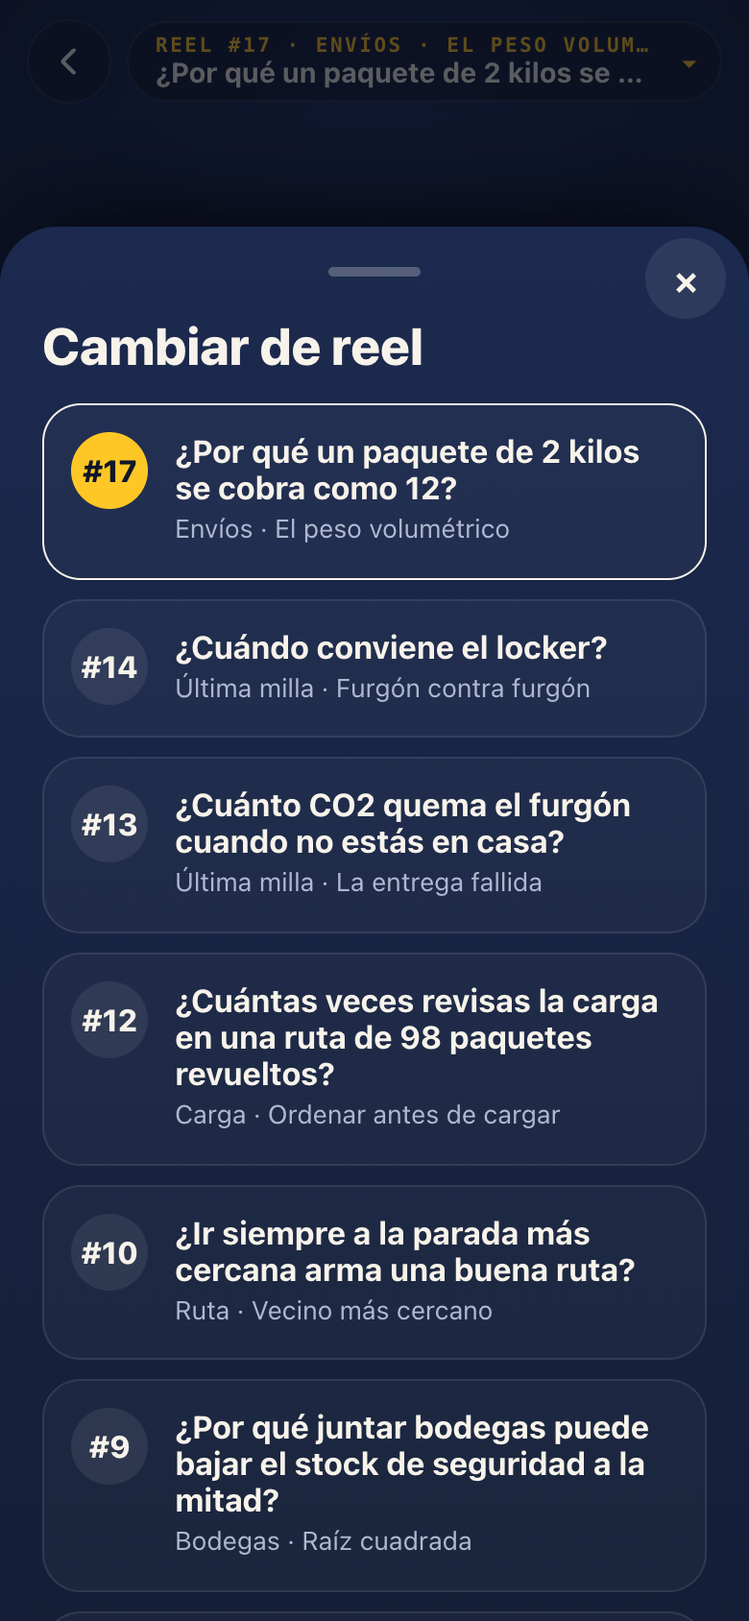
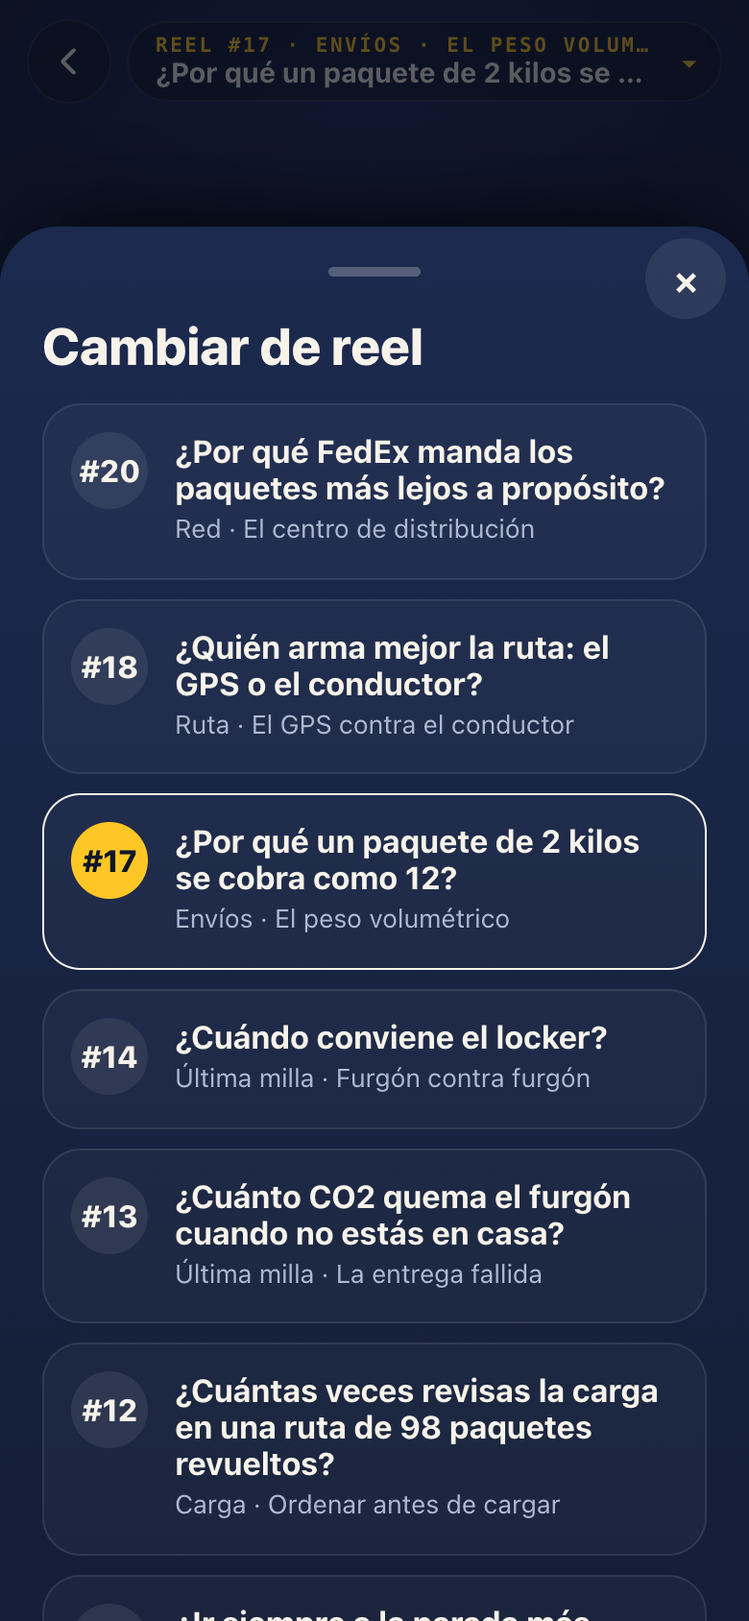
Publicar laboratorio reel 20 · FedEx, más lejos a propósito (FPUB=true)
- FPUB=true e index.html rearmado (armado idéntico). origin/main sin cambios desde c709a98.
- verify.js apaga también FPUB; aire, gps, locker, co2, cadena, bodegas y quedatelo aceptan 49 fuentes de dieciséis reels
  con fedex publicada (47 de quince con aire o gps apagados en sus pruebas) y el #20 primero en la lista de reels.
- Capturas a 390 px: fedex_pub_portada, fedex_pub_reel20, fedex_pub_biblioteca; aire/gps_lista_reels rehechas.
- Pruebas con FPUB=true: fedex 39/39, verify 155/155, cadena 9/9, bodegas 12/12, vecino 14/14, quedatelo 14/14,
  ordenar 14/14, co2 19/19, locker 36/36, aire 34/34, gps 29/29.

diff --git a/tests/aire.js b/tests/aire.js
@@ -85,9 +85,9 @@ const PORT=8801,U=`http://127.0.0.1:${PORT}/index.html`;
  // reel 17 y biblioteca con APUB=true
  await p.goto(`${U}?reel=17`);await p.waitForTimeout(2000);ok("?reel=17 abre #aire",await p.evaluate(()=>location.hash)==="#aire");
  await p.evaluate(()=>ECAPP.openSheet("aire","reels"));await p.waitForTimeout(700);const lst=await p.evaluate(()=>[...document.querySelectorAll("#sheet-body .mrow")].map(e=>e.textContent.replace(/\s+/g," ").trim()));
- {const g18=/^#18/.test(lst[0]||""),i17=g18?1:0;ok(g18?"Con APUB=true aparece en la lista de reels, tras el #18 (gps publicada): «#17 ¿Por qué un paquete de 2 kilos se cobra como 12?»":"Con APUB=true aparece en la lista de reels, primero: «#17 ¿Por qué un paquete de 2 kilos se cobra como 12?»",/^#17 ?¿Por qué un paquete de 2 kilos se cobra como 12\?/.test(lst[i17]||""),lst.slice(0,3))}await p.screenshot({path:"capturas/aire_lista_reels.png"});await p.evaluate(()=>ECAPP.closeSheet());await p.waitForTimeout(400);
+ {const g20=/^#20/.test(lst[0]||""),g18=/^#18/.test(lst[g20?1:0]||""),i17=(g20?1:0)+(g18?1:0);ok(g18?"Con APUB=true aparece en la lista de reels, tras el #18 (gps publicada): «#17 ¿Por qué un paquete de 2 kilos se cobra como 12?»":"Con APUB=true aparece en la lista de reels, primero: «#17 ¿Por qué un paquete de 2 kilos se cobra como 12?»",/^#17 ?¿Por qué un paquete de 2 kilos se cobra como 12\?/.test(lst[i17]||""),lst.slice(0,3))}await p.screenshot({path:"capturas/aire_lista_reels.png"});await p.evaluate(()=>ECAPP.closeSheet());await p.waitForTimeout(400);
  await p.evaluate(()=>{location.hash="biblioteca"});await p.waitForTimeout(900);const t=await p.textContent("#libintro");
- const LKp=await p.evaluate(()=>!!ECAPP.dev.PUBLICADO.locker),GPp=await p.evaluate(()=>!!ECAPP.dev.PUBLICADO.gps);ok(GPp&&LKp?"Biblioteca con APUB=true: 45 fuentes de quince reels (con el locker y gps)":LKp?"Biblioteca con APUB=true: 43 fuentes de catorce reels (con el locker)":"Biblioteca con APUB=true: 42 fuentes de trece reels",(GPp&&LKp?/Cuarenta y cinco fuentes de quince reels/:LKp?/Cuarenta y tres fuentes de catorce reels/:/Cuarenta y dos fuentes de trece reels/).test(t),t.slice(0,50));
+ const LKp=await p.evaluate(()=>!!ECAPP.dev.PUBLICADO.locker),GPp=await p.evaluate(()=>!!ECAPP.dev.PUBLICADO.gps);const FXp=await p.evaluate(()=>!!ECAPP.dev.PUBLICADO.fedex);ok(FXp&&GPp&&LKp?"Biblioteca con APUB=true: 49 fuentes de dieciséis reels (con el locker, gps y fedex)":GPp&&LKp?"Biblioteca con APUB=true: 45 fuentes de quince reels (con el locker y gps)":LKp?"Biblioteca con APUB=true: 43 fuentes de catorce reels (con el locker)":"Biblioteca con APUB=true: 42 fuentes de trece reels",(FXp&&GPp&&LKp?/Cuarenta y nueve fuentes de dieciséis reels/:GPp&&LKp?/Cuarenta y cinco fuentes de quince reels/:LKp?/Cuarenta y tres fuentes de catorce reels/:/Cuarenta y dos fuentes de trece reels/).test(t),t.slice(0,50));
  ok("Biblioteca: McKinnon (pp. 15–16) y la guía de tarifas, sin empresas chilenas en la ficha",await p.evaluate(()=>{const S=ECAPP.SOURCES.filter(s=>s.labs.includes("aire"));const tx=JSON.stringify(S)+JSON.stringify(ECAPP.LAB.aire.notApply);return S.length===2&&/pp\. 15–16/.test(tx)&&/Expedited/.test(tx)&&!/Chilexpress|Starken|Correos de Chile|Blue Express|BlueExpress|Mercado Libre/i.test(tx)}));
  await p.evaluate(()=>ECAPP.openBook("mckinnon2015"));await p.waitForTimeout(900);
  const bk=await p.textContent("body");ok("Libro McKinnon: el dato (≈ ×2) con tus números y «la proporción de cargas… casi se duplicó»",/≈ ×2/.test(bk)&&/Tu caja también se llena por espacio/.test(bk)&&/la proporción de cargas de camión limitadas por volumen/.test(bk)&&/la proporción de cargas limitadas solo o en parte por volumen casi se duplicó/.test(bk));
@@ -100,6 +100,6 @@ const PORT=8801,U=`http://127.0.0.1:${PORT}/index.html`;
  ok("Con APUB=false: ?reel=17 no abre el laboratorio",await q.p.evaluate(()=>location.hash!=="#aire"),await q.p.evaluate(()=>location.hash));
  await q.p.evaluate(()=>ECAPP.openSheet("co2","reels"));await q.p.waitForTimeout(700);ok("Con APUB=false: no aparece en la lista de reels",!(await q.p.evaluate(()=>[...document.querySelectorAll("#sheet-body .mrow")].some(e=>/#17|2 kilos/.test(e.textContent)))));await q.p.evaluate(()=>ECAPP.closeSheet());await q.p.waitForTimeout(400);
  await q.p.evaluate(()=>{location.hash="biblioteca"});await q.p.waitForTimeout(900);const t2=await q.p.textContent("#libintro");
- const LKq=await q.p.evaluate(()=>!!ECAPP.dev.PUBLICADO.locker),GPq=await q.p.evaluate(()=>!!ECAPP.dev.PUBLICADO.gps);ok(GPq&&LKq?"Con APUB=false: la biblioteca queda en 43 fuentes de catorce reels (con locker y gps), sin McKinnon ni la guía":LKq?"Con APUB=false: la biblioteca queda en 41 fuentes de trece reels (con el locker), sin McKinnon ni la guía":"Con APUB=false: la biblioteca sigue en 40 fuentes de doce reels, sin McKinnon ni la guía",(GPq&&LKq?/Cuarenta y tres fuentes de catorce reels/:LKq?/Cuarenta y una fuentes de trece reels/:/Cuarenta fuentes de doce reels/).test(t2)&&!(await q.p.evaluate(()=>!!document.querySelector('#v-biblioteca [data-id="mckinnon2015"],#v-biblioteca [data-id="ups_sg2024"]')))&&!/Camiones que se llenan por volumen/.test(await q.p.textContent("#v-biblioteca")),t2.slice(0,45));
+ const LKq=await q.p.evaluate(()=>!!ECAPP.dev.PUBLICADO.locker),GPq=await q.p.evaluate(()=>!!ECAPP.dev.PUBLICADO.gps);const FXq=await q.p.evaluate(()=>!!ECAPP.dev.PUBLICADO.fedex);ok(FXq&&GPq&&LKq?"Con APUB=false: la biblioteca queda en 47 fuentes de quince reels (con locker, gps y fedex), sin McKinnon ni la guía":GPq&&LKq?"Con APUB=false: la biblioteca queda en 43 fuentes de catorce reels (con locker y gps), sin McKinnon ni la guía":LKq?"Con APUB=false: la biblioteca queda en 41 fuentes de trece reels (con el locker), sin McKinnon ni la guía":"Con APUB=false: la biblioteca sigue en 40 fuentes de doce reels, sin McKinnon ni la guía",(FXq&&GPq&&LKq?/Cuarenta y siete fuentes de quince reels/:GPq&&LKq?/Cuarenta y tres fuentes de catorce reels/:LKq?/Cuarenta y una fuentes de trece reels/:/Cuarenta fuentes de doce reels/).test(t2)&&!(await q.p.evaluate(()=>!!document.querySelector('#v-biblioteca [data-id="mckinnon2015"],#v-biblioteca [data-id="ups_sg2024"]')))&&!/Camiones que se llenan por volumen/.test(await q.p.textContent("#v-biblioteca")),t2.slice(0,45));
  ok("Con APUB=false: sin errores de página",e2.length===0,e2.slice(0,3));
  console.log(`${checks.filter(Boolean).length}/${checks.length}`);await b.close();srv.close&&srv.close();process.exit(checks.every(Boolean)?0:1)})().catch(e=>{console.error(e);process.exit(1)});

diff --git a/tests/locker.js b/tests/locker.js
@@ -79,10 +79,10 @@ const U="http://127.0.0.1:8798/index.html";const SRCJS=require("fs").readFileSyn
  await p.screenshot({path:"capturas/locker_numeros.png",fullPage:false});
  await p.goto(U+"?reel=14");await p.waitForTimeout(2000);ok("?reel=14 abre #locker",await p.evaluate(()=>location.hash)==="#locker");
  await p.evaluate(()=>{location.hash="biblioteca"});await p.waitForTimeout(800);const t=await p.textContent("#libintro");
- const apL=await p.evaluate(()=>!!ECAPP.dev.PUBLICADO.aire),gpL=await p.evaluate(()=>!!ECAPP.dev.PUBLICADO.gps);ok(gpL&&apL?"Biblioteca: 45 fuentes de quince reels (ES, aire y gps publicadas)":apL?"Biblioteca: 43 fuentes de catorce reels (ES, aire publicada)":"Biblioteca: 41 fuentes de trece reels (ES)",gpL&&apL?/Cuarenta y cinco fuentes de quince reels/.test(t):apL?/Cuarenta y tres fuentes de catorce reels/.test(t):/Cuarenta y una fuentes de trece reels/.test(t),t.slice(0,48));
+ const apL=await p.evaluate(()=>!!ECAPP.dev.PUBLICADO.aire),gpL=await p.evaluate(()=>!!ECAPP.dev.PUBLICADO.gps);const fpL=await p.evaluate(()=>!!ECAPP.dev.PUBLICADO.fedex);ok(fpL&&gpL&&apL?"Biblioteca: 49 fuentes de dieciséis reels (ES, aire, gps y fedex publicadas)":gpL&&apL?"Biblioteca: 45 fuentes de quince reels (ES, aire y gps publicadas)":apL?"Biblioteca: 43 fuentes de catorce reels (ES, aire publicada)":"Biblioteca: 41 fuentes de trece reels (ES)",fpL&&gpL&&apL?/Cuarenta y nueve fuentes de dieciséis reels/.test(t):gpL&&apL?/Cuarenta y cinco fuentes de quince reels/.test(t):apL?/Cuarenta y tres fuentes de catorce reels/.test(t):/Cuarenta y una fuentes de trece reels/.test(t),t.slice(0,48));
  ok("Biblioteca: ficha de Hovi y Bø con el DOI, y PostNord solo como nota dentro de ella",await p.evaluate(()=>{const tx=document.body.textContent;return tx.includes("Hovi y Bø")&&tx.includes("Unlocking the potential")})&&/id:"hovi2024"[^\n]*url:"https:\/\/doi\.org\/10\.1016\/j\.sftr\.2024\.100189"/.test(SRCJS)&&/id:"hovi2024"[^\n]*labs:\["locker"\]/.test(SRCJS)&&/citada por el estudio/.test(SRCJS)&&(SRCJS.match(/PostNord/g)||[]).length>=1&&!/id:"postnord/.test(SRCJS));
  await p.evaluate(()=>document.getElementById("lang-en").click());await p.waitForTimeout(400);const te=await p.textContent("#libintro");
- ok(gpL&&apL?"Library: forty-five sources from fifteen reels (EN, aire and gps published)":apL?"Library: forty-three sources from fourteen reels (EN, aire published)":"Library: forty-one sources from thirteen reels (EN)",(gpL&&apL?/Forty-five sources from fifteen reels/:apL?/Forty-three sources from fourteen reels/:/Forty-one sources from thirteen reels/).test(te),te.slice(0,48));
+ ok(fpL&&gpL&&apL?"Library: forty-nine sources from sixteen reels (EN, aire, gps and fedex published)":gpL&&apL?"Library: forty-five sources from fifteen reels (EN, aire and gps published)":apL?"Library: forty-three sources from fourteen reels (EN, aire published)":"Library: forty-one sources from thirteen reels (EN)",(fpL&&gpL&&apL?/Forty-nine sources from sixteen reels/:gpL&&apL?/Forty-five sources from fifteen reels/:apL?/Forty-three sources from fourteen reels/:/Forty-one sources from thirteen reels/).test(te),te.slice(0,48));
  await p.evaluate(()=>document.getElementById("lang-es").click());
  ok("Sin errores de página (390 px)",errs.length===0,errs.slice(0,3));
  /* 6 · escritorio 1280 px */
@@ -100,6 +100,6 @@ const U="http://127.0.0.1:8798/index.html";const SRCJS=require("fs").readFileSyn
  await q.goto(U+"?reel=14");await q.waitForTimeout(1500);const h14=await q.evaluate(()=>location.hash);
  await q.goto(U+"?caso=locker");await q.waitForTimeout(1500);const hc=await q.evaluate(()=>location.hash);
  await q.evaluate(()=>{location.hash="biblioteca"});await q.waitForTimeout(800);const tq=await q.textContent("#libintro");
- ok(LP?(gpL&&apL?"LPUB=true: ?reel=14 abre, 45 fuentes de quince reels (aire y gps publicadas)":apL?"LPUB=true: ?reel=14 abre, 43 fuentes de catorce reels (aire publicada)":"LPUB=true: ?reel=14 abre, 41 fuentes de trece reels"):(apL?"LPUB=false: ?reel=14 no abre, ?caso=locker sí, biblioteca en 41 de trece (aire publicada) y sin Hovi":"LPUB=false: ?reel=14 no abre, ?caso=locker sí, biblioteca sigue en 40 de doce y sin Hovi"),LP?h14==="#locker"&&(gpL&&apL?/Cuarenta y cinco fuentes de quince/:apL?/Cuarenta y tres fuentes de catorce/:/Cuarenta y una fuentes de trece/).test(tq):h14!=="#locker"&&hc==="#locker"&&(apL?/Cuarenta y una fuentes de trece/:/Cuarenta fuentes de doce/).test(tq)&&!/Hovi/.test(await q.textContent("#shelves")),[LP,h14,hc,tq.slice(0,40)]);
+ ok(LP?(fpL&&gpL&&apL?"LPUB=true: ?reel=14 abre, 49 fuentes de dieciséis reels (aire, gps y fedex publicadas)":gpL&&apL?"LPUB=true: ?reel=14 abre, 45 fuentes de quince reels (aire y gps publicadas)":apL?"LPUB=true: ?reel=14 abre, 43 fuentes de catorce reels (aire publicada)":"LPUB=true: ?reel=14 abre, 41 fuentes de trece reels"):(apL?"LPUB=false: ?reel=14 no abre, ?caso=locker sí, biblioteca en 41 de trece (aire publicada) y sin Hovi":"LPUB=false: ?reel=14 no abre, ?caso=locker sí, biblioteca sigue en 40 de doce y sin Hovi"),LP?h14==="#locker"&&(fpL&&gpL&&apL?/Cuarenta y nueve fuentes de dieciséis/:gpL&&apL?/Cuarenta y cinco fuentes de quince/:apL?/Cuarenta y tres fuentes de catorce/:/Cuarenta y una fuentes de trece/).test(tq):h14!=="#locker"&&hc==="#locker"&&(apL?/Cuarenta y una fuentes de trece/:/Cuarenta fuentes de doce/).test(tq)&&!/Hovi/.test(await q.textContent("#shelves")),[LP,h14,hc,tq.slice(0,40)]);
  ok("Sin errores de página (bandera real)",errq.length===0,errq.slice(0,3));
  console.log(`${checks.filter(Boolean).length}/${checks.length}`);await b.close();srv.close&&srv.close();process.exit(checks.every(Boolean)?0:1)})().catch(e=>{console.error(e);process.exit(1)});

diff --git a/tests/gps.js b/tests/gps.js
@@ -13,7 +13,7 @@ const fs=require("fs"),path=require("path");const CAP=path.join(__dirname,"..","
   await p.goto("http://127.0.0.1:8799/index.html?reel=18");await p.waitForTimeout(2000);const h18=await p.evaluate(()=>location.hash);
   await p.evaluate(()=>{location.hash="biblioteca"});await p.waitForTimeout(800);const bib=await p.evaluate(()=>!!document.querySelector(`#v-biblioteca [data-book="cook2021"]`)||!!document.querySelector(`#v-biblioteca [data-book="encamino_r018"]`));
   const pub={enPortada:/El GPS contra el conductor/.test(home),reel18:h18,enBiblioteca:bib};
-  {const ti=await p.textContent("#libintro");ok("Con GPUB=false la biblioteca sigue en 43 fuentes de catorce reels",/Cuarenta y tres fuentes de catorce reels/.test(ti),ti.slice(0,48))}
+  {const ti=await p.textContent("#libintro");const fx=await p.evaluate(()=>!!ECAPP.dev.PUBLICADO.fedex);ok(fx?"Con GPUB=false la biblioteca queda en 47 fuentes de quince reels (fedex publicada)":"Con GPUB=false la biblioteca sigue en 43 fuentes de catorce reels",(fx?/Cuarenta y siete fuentes de quince reels/:/Cuarenta y tres fuentes de catorce reels/).test(ti),ti.slice(0,48))}
   ok("Bandera GPUB=false: el laboratorio no sale en la portada, ?reel=18 no lo abre y sus fuentes no salen en la biblioteca",!pub.enPortada&&pub.reel18!=="#gps"&&!pub.enBiblioteca,pub);
   await p.goto("http://127.0.0.1:8799/index.html?caso=gps");await p.waitForSelector("#play");await p.waitForTimeout(1200);
   ok("Sin publicar, el enlace directo ?caso=gps abre el laboratorio",await p.evaluate(()=>location.hash)==="#gps",await p.evaluate(()=>location.hash));
@@ -87,8 +87,8 @@ const fs=require("fs"),path=require("path");const CAP=path.join(__dirname,"..","
  ok("Sin empresas ni apps nombradas en el laboratorio ni en sus fuentes",!/amazon|google|waze|\bups\b|fedex|dhl|uber|rappi|mercado ?libre/i.test(marcas),(marcas.match(/amazon|google|waze|\bups\b|fedex|dhl|uber|rappi|mercado ?libre/i)||[])[0]);
  await p.goto("http://127.0.0.1:8799/index.html?reel=18");await p.waitForTimeout(2000);ok("Publicado: ?reel=18 abre #gps",await p.evaluate(()=>location.hash)==="#gps");
  await p.evaluate(()=>{location.hash="biblioteca"});await p.waitForTimeout(800);
- await p.evaluate(()=>ECAPP.openSheet("gps","reels"));await p.waitForTimeout(700);{const lst=await p.evaluate(()=>[...document.querySelectorAll("#sheet-body .mrow")].map(e=>e.textContent.replace(/\s+/g," ").trim()));ok("Publicado: aparece primero en la lista de reels: «#18 ¿Quién arma mejor la ruta: el GPS o el conductor?»",/^#18 ?¿Quién arma mejor la ruta: el GPS o el conductor\?/.test(lst[0]||""),lst.slice(0,3));await p.screenshot({path:path.join(CAP,"gps_lista_reels.png")});await p.evaluate(()=>ECAPP.closeSheet());await p.waitForTimeout(400);await p.evaluate(()=>{location.hash="biblioteca"});await p.waitForTimeout(800)}
- {const ti=await p.textContent("#libintro"),pp=await p.evaluate(()=>!!ECAPP.dev.PUBLICADO.aire&&!!ECAPP.dev.PUBLICADO.locker);ok(pp?"Publicado: la biblioteca pasa de 43 a 45 fuentes, de quince reels":"Publicado: la biblioteca suma 2 fuentes",pp?/Cuarenta y cinco fuentes de quince reels/.test(ti):true,ti.slice(0,48))}
+ await p.evaluate(()=>ECAPP.openSheet("gps","reels"));await p.waitForTimeout(700);{const lst=await p.evaluate(()=>[...document.querySelectorAll("#sheet-body .mrow")].map(e=>e.textContent.replace(/\s+/g," ").trim()));ok("Publicado: aparece primero en la lista de reels: «#18 ¿Quién arma mejor la ruta: el GPS o el conductor?»",/^#18 ?¿Quién arma mejor la ruta: el GPS o el conductor\?/.test(lst[/^#20/.test(lst[0]||"")?1:0]||""),lst.slice(0,3));await p.screenshot({path:path.join(CAP,"gps_lista_reels.png")});await p.evaluate(()=>ECAPP.closeSheet());await p.waitForTimeout(400);await p.evaluate(()=>{location.hash="biblioteca"});await p.waitForTimeout(800)}
+ {const ti=await p.textContent("#libintro"),pp=await p.evaluate(()=>!!ECAPP.dev.PUBLICADO.aire&&!!ECAPP.dev.PUBLICADO.locker);ok(pp?"Publicado: la biblioteca pasa de 43 a 45 fuentes, de quince reels":"Publicado: la biblioteca suma 2 fuentes",pp?((await p.evaluate(()=>!!ECAPP.dev.PUBLICADO.fedex))?/Cuarenta y nueve fuentes de dieciséis reels/:/Cuarenta y cinco fuentes de quince reels/).test(ti):true,ti.slice(0,48))}
  ok("Publicado: la biblioteca trae Cook, Held y Helsgaun y el cálculo propio de En Camino",await p.evaluate(()=>!!document.querySelector(`#v-biblioteca [data-book="cook2021"]`)&&!!document.querySelector(`#v-biblioteca [data-book="encamino_r018"]`)));
  await p.evaluate(()=>ECAPP.openBook("cook2021"));await p.waitForTimeout(600);await p.screenshot({path:path.join(CAP,"gps_libro.png")});
  const bk=await p.evaluate(()=>{const pg=document.querySelector(".bk-page");return{eq:!!(pg.querySelector(".beq")||pg.querySelector(".bigstat")),live:!!pg.querySelector(".blive"),t:pg.textContent}});

diff --git a/tests/quedatelo.js b/tests/quedatelo.js
@@ -34,6 +34,6 @@ const checks=[];const ok=(n,c,g)=>{checks.push(!!c);console.log((c?"PASS ":"FAIL
  ok("Sin desborde horizontal a 360 px",await p.evaluate(()=>document.documentElement.scrollWidth<=innerWidth));
  /* publicación */
  await p.goto("http://127.0.0.1:8792/index.html?reel=7");await p.waitForTimeout(2000);const h=await p.evaluate(()=>location.hash);ok(pub?"?reel=7 abre #quedatelo":"?reel=7 no abre nada mientras esté oculto",pub?h==="#quedatelo":h!=="#quedatelo",h);
- const lab=await p.evaluate(()=>{location.hash="biblioteca";return 1});await p.waitForTimeout(800);const t=await p.textContent("#libintro");const cpub=await p.evaluate(()=>!!ECAPP.dev.PUBLICADO.cadena);const bpub=await p.evaluate(()=>!!ECAPP.dev.PUBLICADO.bodegas),vpub=await p.evaluate(()=>!!ECAPP.dev.PUBLICADO.vecino),opub=await p.evaluate(()=>!!ECAPP.dev.PUBLICADO.ordenar),xpub=await p.evaluate(()=>!!ECAPP.dev.PUBLICADO.co2),lpub=await p.evaluate(()=>!!ECAPP.dev.PUBLICADO.locker),apub=await p.evaluate(()=>!!ECAPP.dev.PUBLICADO.aire),gpub=await p.evaluate(()=>!!ECAPP.dev.PUBLICADO.gps);ok(pub?(gpub&&apub?"Biblioteca: 45 fuentes de quince reels (gps publicada)":apub?"Biblioteca: 43 fuentes de catorce reels (aire publicada)":lpub?"Biblioteca: 41 fuentes de trece reels (locker publicada)":xpub?"Biblioteca: 40 fuentes de doce reels (co2 publicada)":opub?"Biblioteca: 30 fuentes de once reels (ordenar publicada)":vpub?"Biblioteca: 28 fuentes de diez reels (vecino publicada)":bpub?"Biblioteca: 27 fuentes de nueve reels (bodegas publicada)":cpub?"Biblioteca: 25 fuentes de ocho reels (cadena publicada)":"Biblioteca: 23 fuentes de siete reels"):"Biblioteca oculta: 20 fuentes de seis reels",pub?(gpub&&apub?/(Cuarenta y cinco|45) fuentes de quince/.test(t):apub?/(Cuarenta y tres|43) fuentes de catorce/.test(t):lpub?/(Cuarenta y una|41) fuentes de trece/.test(t):xpub?/(Cuarenta|40) fuentes de doce/.test(t):opub?/(Treinta|30) fuentes de once/.test(t):vpub?/(Veintiocho|28) fuentes de diez/.test(t):bpub?/Veintisiete fuentes de nueve/.test(t):cpub?/Veinticinco fuentes de ocho/.test(t):/Veintitrés|23/.test(t)):/Veinte/.test(t),t.slice(0,40));
+ const lab=await p.evaluate(()=>{location.hash="biblioteca";return 1});await p.waitForTimeout(800);const t=await p.textContent("#libintro");const cpub=await p.evaluate(()=>!!ECAPP.dev.PUBLICADO.cadena);const bpub=await p.evaluate(()=>!!ECAPP.dev.PUBLICADO.bodegas),vpub=await p.evaluate(()=>!!ECAPP.dev.PUBLICADO.vecino),opub=await p.evaluate(()=>!!ECAPP.dev.PUBLICADO.ordenar),xpub=await p.evaluate(()=>!!ECAPP.dev.PUBLICADO.co2),lpub=await p.evaluate(()=>!!ECAPP.dev.PUBLICADO.locker),apub=await p.evaluate(()=>!!ECAPP.dev.PUBLICADO.aire),gpub=await p.evaluate(()=>!!ECAPP.dev.PUBLICADO.gps);const fpub=await p.evaluate(()=>!!ECAPP.dev.PUBLICADO.fedex);ok(pub?(fpub&&gpub&&apub?"Biblioteca: 49 fuentes de dieciséis reels (fedex publicada)":gpub&&apub?"Biblioteca: 45 fuentes de quince reels (gps publicada)":apub?"Biblioteca: 43 fuentes de catorce reels (aire publicada)":lpub?"Biblioteca: 41 fuentes de trece reels (locker publicada)":xpub?"Biblioteca: 40 fuentes de doce reels (co2 publicada)":opub?"Biblioteca: 30 fuentes de once reels (ordenar publicada)":vpub?"Biblioteca: 28 fuentes de diez reels (vecino publicada)":bpub?"Biblioteca: 27 fuentes de nueve reels (bodegas publicada)":cpub?"Biblioteca: 25 fuentes de ocho reels (cadena publicada)":"Biblioteca: 23 fuentes de siete reels"):"Biblioteca oculta: 20 fuentes de seis reels",pub?(fpub&&gpub&&apub?/(Cuarenta y nueve|49) fuentes de dieciséis/.test(t):gpub&&apub?/(Cuarenta y cinco|45) fuentes de quince/.test(t):apub?/(Cuarenta y tres|43) fuentes de catorce/.test(t):lpub?/(Cuarenta y una|41) fuentes de trece/.test(t):xpub?/(Cuarenta|40) fuentes de doce/.test(t):opub?/(Treinta|30) fuentes de once/.test(t):vpub?/(Veintiocho|28) fuentes de diez/.test(t):bpub?/Veintisiete fuentes de nueve/.test(t):cpub?/Veinticinco fuentes de ocho/.test(t):/Veintitrés|23/.test(t)):/Veinte/.test(t),t.slice(0,40));
  ok("Sin errores de página",errs.length===0,errs.slice(0,3));
  console.log(`${checks.filter(Boolean).length}/${checks.length}`);await b.close();srv.close&&srv.close();process.exit(checks.every(Boolean)?0:1)})().catch(e=>{console.error(e);process.exit(1)});

diff --git a/tests/verify.js b/tests/verify.js
@@ -16,7 +16,7 @@ const es1=x=>x.toLocaleString("es-CL",{minimumFractionDigits:1,maximumFractionDi
 (async()=>{
  const srv=await serve(8790);const b=await chromium.launch({args:["--use-gl=angle","--use-angle=swiftshader","--enable-unsafe-swiftshader"]});
  /* this suite pins the page without reel 7; tests/quedatelo.js covers reel 7 in its real state */
- const noQ=ctx=>ctx.route("**/index.html*",async r=>{const x=await r.fetch();await r.fulfill({response:x,body:(await x.text()).replace("const QPUB=true;","const QPUB=false;").replace("const CPUB=true;","const CPUB=false;").replace("const BPUB=true;","const BPUB=false;").replace("const VPUB=true;","const VPUB=false;").replace("const OPUB=true;","const OPUB=false;").replace("const XPUB=true;","const XPUB=false;").replace("const APUB=true;","const APUB=false;").replace("const LPUB=true;","const LPUB=false;").replace("const GPUB=true;","const GPUB=false;")})});
+ const noQ=ctx=>ctx.route("**/index.html*",async r=>{const x=await r.fetch();await r.fulfill({response:x,body:(await x.text()).replace("const QPUB=true;","const QPUB=false;").replace("const CPUB=true;","const CPUB=false;").replace("const BPUB=true;","const BPUB=false;").replace("const VPUB=true;","const VPUB=false;").replace("const OPUB=true;","const OPUB=false;").replace("const XPUB=true;","const XPUB=false;").replace("const APUB=true;","const APUB=false;").replace("const LPUB=true;","const LPUB=false;").replace("const GPUB=true;","const GPUB=false;").replace("const FPUB=true;","const FPUB=false;")})});
  const mk=async(vp,mobile,ua)=>{const ctx=await b.newContext({viewport:vp,locale:"es-CL",isMobile:!!mobile,hasTouch:!!mobile,deviceScaleFactor:mobile?2:1,userAgent:ua,permissions:["clipboard-read","clipboard-write"]});await noQ(ctx);const p=await ctx.newPage();p.errs=[];p.on("pageerror",e=>p.errs.push(e.message));await env(p);return p};
  const shot=(p,name,full)=>p.screenshot({path:`${OUT}/${name}.png`,fullPage:!!full,timeout:120000});
  const metrics=p=>p.$$eval(".m",a=>a.map(e=>({v:e.querySelector(".mv").textContent,l:e.querySelector(".ml").textContent,cur:e.classList.contains("cur")})));
@@ -282,7 +282,7 @@ ok("Sin preserveDrawingBuffer (ahorra GPU en el WebView) y con recuperación del
  ok("Inglés · el título de la pestaña cambia con el idioma",/Lab$/.test(await v.title()));await v.evaluate(()=>document.getElementById("lang-es").click());ok("Español · título de la pestaña en español",/Laboratorio$/.test(await v.title()));
  ok("Veredictos y barrido · sin errores de JavaScript",v.errs.length===0,v.errs);
  /* publishing reel 6 is one flag: a copy of the page with fila:true brings everything back */
- const PUBF=path.resolve(__dirname,"../_pub_test.html");fs.writeFileSync(PUBF,html.replace("fila:false}","fila:true}").replace("const QPUB=true;","const QPUB=false;").replace("const CPUB=true;","const CPUB=false;").replace("const BPUB=true;","const BPUB=false;").replace("const VPUB=true;","const VPUB=false;").replace("const OPUB=true;","const OPUB=false;").replace("const XPUB=true;","const XPUB=false;").replace("const APUB=true;","const APUB=false;").replace("const LPUB=true;","const LPUB=false;").replace("const GPUB=true;","const GPUB=false;"));
+ const PUBF=path.resolve(__dirname,"../_pub_test.html");fs.writeFileSync(PUBF,html.replace("fila:false}","fila:true}").replace("const QPUB=true;","const QPUB=false;").replace("const CPUB=true;","const CPUB=false;").replace("const BPUB=true;","const BPUB=false;").replace("const VPUB=true;","const VPUB=false;").replace("const OPUB=true;","const OPUB=false;").replace("const XPUB=true;","const XPUB=false;").replace("const APUB=true;","const APUB=false;").replace("const LPUB=true;","const LPUB=false;").replace("const GPUB=true;","const GPUB=false;").replace("const FPUB=true;","const FPUB=false;"));
  try{const w=await mk({width:390,height:844},true,IG);await w.goto("http://127.0.0.1:8790/_pub_test.html#biblioteca");await w.waitForSelector("#shelves .book");
   const pb=await w.evaluate(()=>({books:document.querySelectorAll("#shelves .book[data-book]").length,intro:document.getElementById("libintro").textContent}));
   const ls1=await libS(w);

diff --git a/tests/cadena.js b/tests/cadena.js
@@ -26,6 +26,6 @@ const checks=[];const ok=(n,c,g)=>{checks.push(!!c);console.log((c?"PASS ":"FAIL
  await p.screenshot({path:"capturas/cadena_fin.png"});
  ok("Sin desborde horizontal a 360 px",await p.evaluate(()=>document.documentElement.scrollWidth<=innerWidth));
  await p.goto("http://127.0.0.1:8793/index.html?reel=8");await p.waitForTimeout(2000);ok("?reel=8 abre #cadena",await p.evaluate(()=>location.hash)==="#cadena");
- await p.evaluate(()=>{location.hash="biblioteca"});await p.waitForTimeout(800);const t=await p.textContent("#libintro");const bp=await p.evaluate(()=>!!ECAPP.dev.PUBLICADO.bodegas),vp=await p.evaluate(()=>!!ECAPP.dev.PUBLICADO.vecino),op=await p.evaluate(()=>!!ECAPP.dev.PUBLICADO.ordenar),xp=await p.evaluate(()=>!!ECAPP.dev.PUBLICADO.co2),lp=await p.evaluate(()=>!!ECAPP.dev.PUBLICADO.locker),ap=await p.evaluate(()=>!!ECAPP.dev.PUBLICADO.aire),gp=await p.evaluate(()=>!!ECAPP.dev.PUBLICADO.gps);ok(gp&&ap?"Biblioteca: 45 fuentes de quince reels (gps publicada)":ap?"Biblioteca: 43 fuentes de catorce reels (aire publicada)":lp?"Biblioteca: 41 fuentes de trece reels (locker publicada)":xp?"Biblioteca: 40 fuentes de doce reels (co2 publicada)":op?"Biblioteca: 30 fuentes de once reels (ordenar publicada)":vp?"Biblioteca: 28 fuentes de diez reels (vecino publicada)":bp?"Biblioteca: 27 fuentes de nueve reels (bodegas publicada)":"Biblioteca: 25 fuentes de ocho reels",gp&&ap?/(Cuarenta y cinco|45) fuentes de quince reels/.test(t):ap?/(Cuarenta y tres|43) fuentes de catorce reels/.test(t):lp?/(Cuarenta y una|41) fuentes de trece reels/.test(t):xp?/(Cuarenta|40) fuentes de doce reels/.test(t):op?/(Treinta|30) fuentes de once reels/.test(t):vp?/(Veintiocho|28) fuentes de diez reels/.test(t):bp?/Veintisiete fuentes de nueve reels/.test(t):/Veinticinco fuentes de ocho reels/.test(t),t.slice(0,45));
+ await p.evaluate(()=>{location.hash="biblioteca"});await p.waitForTimeout(800);const t=await p.textContent("#libintro");const bp=await p.evaluate(()=>!!ECAPP.dev.PUBLICADO.bodegas),vp=await p.evaluate(()=>!!ECAPP.dev.PUBLICADO.vecino),op=await p.evaluate(()=>!!ECAPP.dev.PUBLICADO.ordenar),xp=await p.evaluate(()=>!!ECAPP.dev.PUBLICADO.co2),lp=await p.evaluate(()=>!!ECAPP.dev.PUBLICADO.locker),ap=await p.evaluate(()=>!!ECAPP.dev.PUBLICADO.aire),gp=await p.evaluate(()=>!!ECAPP.dev.PUBLICADO.gps);const fp=await p.evaluate(()=>!!ECAPP.dev.PUBLICADO.fedex);ok(fp&&gp&&ap?"Biblioteca: 49 fuentes de dieciséis reels (fedex publicada)":gp&&ap?"Biblioteca: 45 fuentes de quince reels (gps publicada)":ap?"Biblioteca: 43 fuentes de catorce reels (aire publicada)":lp?"Biblioteca: 41 fuentes de trece reels (locker publicada)":xp?"Biblioteca: 40 fuentes de doce reels (co2 publicada)":op?"Biblioteca: 30 fuentes de once reels (ordenar publicada)":vp?"Biblioteca: 28 fuentes de diez reels (vecino publicada)":bp?"Biblioteca: 27 fuentes de nueve reels (bodegas publicada)":"Biblioteca: 25 fuentes de ocho reels",fp&&gp&&ap?/(Cuarenta y nueve|49) fuentes de dieciséis reels/.test(t):gp&&ap?/(Cuarenta y cinco|45) fuentes de quince reels/.test(t):ap?/(Cuarenta y tres|43) fuentes de catorce reels/.test(t):lp?/(Cuarenta y una|41) fuentes de trece reels/.test(t):xp?/(Cuarenta|40) fuentes de doce reels/.test(t):op?/(Treinta|30) fuentes de once reels/.test(t):vp?/(Veintiocho|28) fuentes de diez reels/.test(t):bp?/Veintisiete fuentes de nueve reels/.test(t):/Veinticinco fuentes de ocho reels/.test(t),t.slice(0,45));
  ok("Sin errores de página",errs.length===0,errs.slice(0,3));
  console.log(`${checks.filter(Boolean).length}/${checks.length}`);await b.close();srv.close&&srv.close();process.exit(checks.every(Boolean)?0:1)})().catch(e=>{console.error(e);process.exit(1)});

diff --git a/tests/bodegas.js b/tests/bodegas.js
@@ -31,7 +31,7 @@ const checks=[];const ok=(n,c,g)=>{checks.push(!!c);console.log((c?"PASS ":"FAIL
  ok("Separadas: 400 cajas en 4 bodegas",(await p.textContent("#rv"))==="400",await p.textContent("#rv"));
  await p.screenshot({path:"capturas/bodegas_separadas.png"});
  await p.goto("http://127.0.0.1:8794/index.html?reel=9");await p.waitForTimeout(2000);ok("?reel=9 abre #bodegas",await p.evaluate(()=>location.hash)==="#bodegas");
- await p.evaluate(()=>{location.hash="biblioteca"});await p.waitForTimeout(800);const t=await p.textContent("#libintro");const vp=await p.evaluate(()=>!!ECAPP.dev.PUBLICADO.vecino),op=await p.evaluate(()=>!!ECAPP.dev.PUBLICADO.ordenar),xp=await p.evaluate(()=>!!ECAPP.dev.PUBLICADO.co2),lp=await p.evaluate(()=>!!ECAPP.dev.PUBLICADO.locker),ap=await p.evaluate(()=>!!ECAPP.dev.PUBLICADO.aire),gp=await p.evaluate(()=>!!ECAPP.dev.PUBLICADO.gps);ok(gp&&ap?"Biblioteca: 45 fuentes de quince reels (gps publicada)":ap?"Biblioteca: 43 fuentes de catorce reels (aire publicada)":lp?"Biblioteca: 41 fuentes de trece reels (locker publicada)":xp?"Biblioteca: 40 fuentes de doce reels (co2 publicada)":op?"Biblioteca: 30 fuentes de once reels (ordenar publicada)":vp?"Biblioteca: 28 fuentes de diez reels (vecino publicada)":"Biblioteca: 27 fuentes de nueve reels",gp&&ap?/(Cuarenta y cinco|45) fuentes de quince reels/.test(t):ap?/(Cuarenta y tres|43) fuentes de catorce reels/.test(t):lp?/(Cuarenta y una|41) fuentes de trece reels/.test(t):xp?/(Cuarenta|40) fuentes de doce reels/.test(t):op?/(Treinta|30) fuentes de once reels/.test(t):vp?/(Veintiocho|28) fuentes de diez reels/.test(t):/Veintisiete fuentes de nueve reels/.test(t),t.slice(0,45));
+ await p.evaluate(()=>{location.hash="biblioteca"});await p.waitForTimeout(800);const t=await p.textContent("#libintro");const vp=await p.evaluate(()=>!!ECAPP.dev.PUBLICADO.vecino),op=await p.evaluate(()=>!!ECAPP.dev.PUBLICADO.ordenar),xp=await p.evaluate(()=>!!ECAPP.dev.PUBLICADO.co2),lp=await p.evaluate(()=>!!ECAPP.dev.PUBLICADO.locker),ap=await p.evaluate(()=>!!ECAPP.dev.PUBLICADO.aire),gp=await p.evaluate(()=>!!ECAPP.dev.PUBLICADO.gps);const fp=await p.evaluate(()=>!!ECAPP.dev.PUBLICADO.fedex);ok(fp&&gp&&ap?"Biblioteca: 49 fuentes de dieciséis reels (fedex publicada)":gp&&ap?"Biblioteca: 45 fuentes de quince reels (gps publicada)":ap?"Biblioteca: 43 fuentes de catorce reels (aire publicada)":lp?"Biblioteca: 41 fuentes de trece reels (locker publicada)":xp?"Biblioteca: 40 fuentes de doce reels (co2 publicada)":op?"Biblioteca: 30 fuentes de once reels (ordenar publicada)":vp?"Biblioteca: 28 fuentes de diez reels (vecino publicada)":"Biblioteca: 27 fuentes de nueve reels",fp&&gp&&ap?/(Cuarenta y nueve|49) fuentes de dieciséis reels/.test(t):gp&&ap?/(Cuarenta y cinco|45) fuentes de quince reels/.test(t):ap?/(Cuarenta y tres|43) fuentes de catorce reels/.test(t):lp?/(Cuarenta y una|41) fuentes de trece reels/.test(t):xp?/(Cuarenta|40) fuentes de doce reels/.test(t):op?/(Treinta|30) fuentes de once reels/.test(t):vp?/(Veintiocho|28) fuentes de diez reels/.test(t):/Veintisiete fuentes de nueve reels/.test(t),t.slice(0,45));
  ok("Biblioteca: Maister y Eppen en el estante Bodega",await p.evaluate(()=>{const tx=document.body.textContent;return /Maister/.test(tx)&&/Eppen/.test(tx)}));
  ok("Sin errores de página",errs.length===0,errs.slice(0,3));
  console.log(`${checks.filter(Boolean).length}/${checks.length}`);await b.close();srv.close&&srv.close();process.exit(checks.every(Boolean)?0:1)})().catch(e=>{console.error(e);process.exit(1)});

diff --git a/tests/co2.js b/tests/co2.js
@@ -51,7 +51,7 @@ const checks=[];const ok=(n,c,g)=>{checks.push(!!c);console.log((c?"PASS ":"FAIL
  await p.screenshot({path:"capturas/co2_vecino_fin.png"});
  await p.goto("http://127.0.0.1:8797/index.html?reel=13");await p.waitForTimeout(2000);ok("?reel=13 abre #co2",await p.evaluate(()=>location.hash)==="#co2");
  await p.evaluate(()=>{location.hash="biblioteca"});await p.waitForTimeout(800);const t=await p.textContent("#libintro");
- const gp=await p.evaluate(()=>!!ECAPP.dev.PUBLICADO.gps),lp=await p.evaluate(()=>!!ECAPP.dev.PUBLICADO.locker),ap=await p.evaluate(()=>!!ECAPP.dev.PUBLICADO.aire);ok(gp&&ap&&lp?"Biblioteca: 45 fuentes de quince reels (gps publicada)":ap?"Biblioteca: 43 fuentes de catorce reels (aire publicada)":lp?"Biblioteca: 41 fuentes de trece reels (locker publicada)":"Biblioteca: 40 fuentes de doce reels",gp&&ap&&lp?/(Cuarenta y cinco|45) fuentes de quince reels/.test(t):ap?/(Cuarenta y tres|43) fuentes de catorce reels/.test(t):lp?/(Cuarenta y una|41) fuentes de trece reels/.test(t):/(Cuarenta|40) fuentes de doce reels/.test(t),t.slice(0,45));
+ const gp=await p.evaluate(()=>!!ECAPP.dev.PUBLICADO.gps),lp=await p.evaluate(()=>!!ECAPP.dev.PUBLICADO.locker),ap=await p.evaluate(()=>!!ECAPP.dev.PUBLICADO.aire);const fp=await p.evaluate(()=>!!ECAPP.dev.PUBLICADO.fedex);ok(fp&&gp&&ap&&lp?"Biblioteca: 49 fuentes de dieciséis reels (fedex publicada)":gp&&ap&&lp?"Biblioteca: 45 fuentes de quince reels (gps publicada)":ap?"Biblioteca: 43 fuentes de catorce reels (aire publicada)":lp?"Biblioteca: 41 fuentes de trece reels (locker publicada)":"Biblioteca: 40 fuentes de doce reels",fp&&gp&&ap&&lp?/(Cuarenta y nueve|49) fuentes de dieciséis reels/.test(t):gp&&ap&&lp?/(Cuarenta y cinco|45) fuentes de quince reels/.test(t):ap?/(Cuarenta y tres|43) fuentes de catorce reels/.test(t):lp?/(Cuarenta y una|41) fuentes de trece reels/.test(t):/(Cuarenta|40) fuentes de doce reels/.test(t),t.slice(0,45));
  ok("Biblioteca: Gutenschwager, Argonne, IPCC, EEA, Ofcom, Australia Post, Sagawa, Kübler, Edwards y van Duin",await p.evaluate(()=>{const tx=document.body.textContent;return ["Gutenschwager","Argonne","IPCC","Agencia Europea","Ofcom","Australia Post","Sagawa","Kübler","Edwards","van Duin"].every(k=>tx.includes(k))}));
  ok("Sin errores de página",errs.length===0,errs.slice(0,3));
  console.log(`${checks.filter(Boolean).length}/${checks.length}`);await b.close();srv.close&&srv.close();process.exit(checks.every(Boolean)?0:1)})().catch(e=>{console.error(e);process.exit(1)});

diff --git a/index.html b/index.html
@@ -2089,7 +2089,7 @@ const APUB=true;
 /* reel 18 · el GPS contra el conductor: flip to true on the day it goes out */
 const GPUB=true;
 /* reel 20 · FedEx, más lejos a propósito: flip to true on the day it goes out */
-const FPUB=false;
+const FPUB=true;
 const REELNUM={ups:1,amazon:2,ikea:3,bailey:4,nivel:5,fila:6,quedatelo:7,cadena:8,bodegas:9,vecino:10,ordenar:12,co2:13,locker:14,aire:17,gps:18,fedex:20};
 /* reels published so far: labs with a higher number stay reachable by direct link but are not listed */
 const PUBLICADO={ups:true,amazon:true,ikea:true,bailey:true,nivel:true,fila:true,quedatelo:QPUB,cadena:CPUB,bodegas:BPUB,vecino:VPUB,ordenar:OPUB,co2:XPUB,locker:LPUB,aire:APUB,gps:GPUB,fedex:FPUB};

diff --git a/src/game.js b/src/game.js
@@ -22,7 +22,7 @@ const APUB=true;
 /* reel 18 · el GPS contra el conductor: flip to true on the day it goes out */
 const GPUB=true;
 /* reel 20 · FedEx, más lejos a propósito: flip to true on the day it goes out */
-const FPUB=false;
+const FPUB=true;
 const REELNUM={ups:1,amazon:2,ikea:3,bailey:4,nivel:5,fila:6,quedatelo:7,cadena:8,bodegas:9,vecino:10,ordenar:12,co2:13,locker:14,aire:17,gps:18,fedex:20};
 /* reels published so far: labs with a higher number stay reachable by direct link but are not listed */
 const PUBLICADO={ups:true,amazon:true,ikea:true,bailey:true,nivel:true,fila:true,quedatelo:QPUB,cadena:CPUB,bodegas:BPUB,vecino:VPUB,ordenar:OPUB,co2:XPUB,locker:LPUB,aire:APUB,gps:GPUB,fedex:FPUB};
